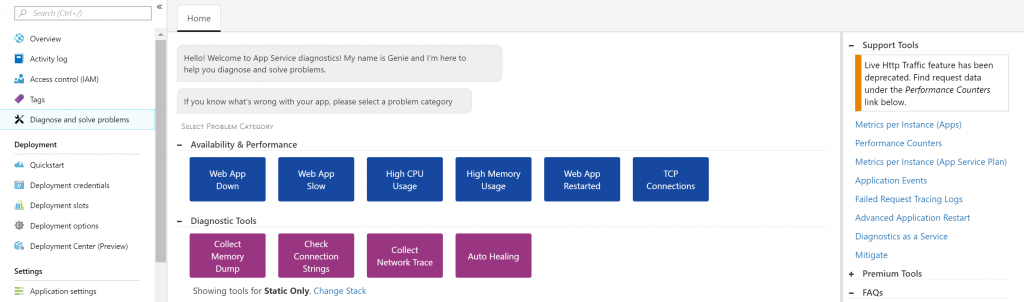
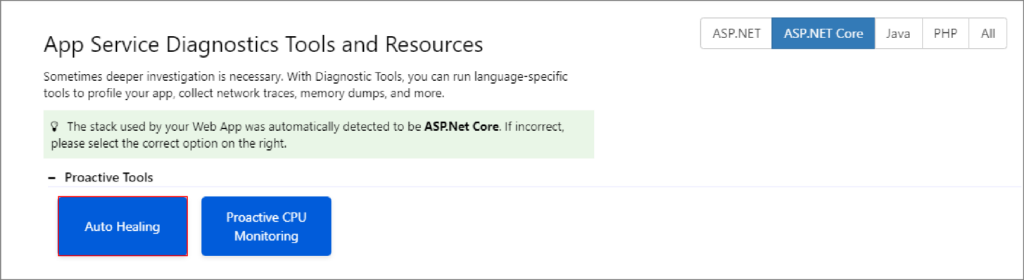
Updating screenshots for Auto Healing blog

diff --git a/_posts/2018-9-10-Announcing the New Auto Healing Experience in App Service Diagnostics.html b/_posts/2018-9-10-Announcing the New Auto Healing Experience in App Service Diagnostics.html
@@ -19,7 +19,10 @@ However, these unexpected behaviors may be temporarily resolved with some simple
 
 Today, we’re excited to announce our new Auto Healing experience in App Service Diagnostics. With our new <strong>Auto Healing</strong> tile shortcut, you can set up custom mitigation actions to run when certain conditions (that you define as unexpected or a sign of unhealthy behavior) are met.
 
+<a href="{{ site.baseurl }}/media/2018/08/homepage_small.png"><img alt="" class="alignnone size-large wp-image-9435" height="259" src="{{ site.baseurl }}/media/2018/08/homepage_big.png" width="879"/></a>
+Click <strong>Diagnostic Tools</strong> from the App Service Diagnostics homepage. 
 <a href="{{ site.baseurl }}/media/2018/08/2018-08-23_14h27_54.png"><img alt="" class="alignnone size-large wp-image-9435" height="259" src="{{ site.baseurl }}/media/2018/08/2018-08-23_14h27_54-1024x302.png" width="879"/></a>
+Then, click <strong>Auto Healing</strong>.
 <h2>How to Get Started</h2>
 <a href="{{ site.baseurl }}/media/2018/08/2018-08-23_14h28_29.png"><img alt="" class="alignnone size-large wp-image-9445" height="589" src="{{ site.baseurl }}/media/2018/08/2018-08-23_14h28_29-1024x686.png" width="879"/></a>
 <strong>Step 1: Define conditions</strong>
